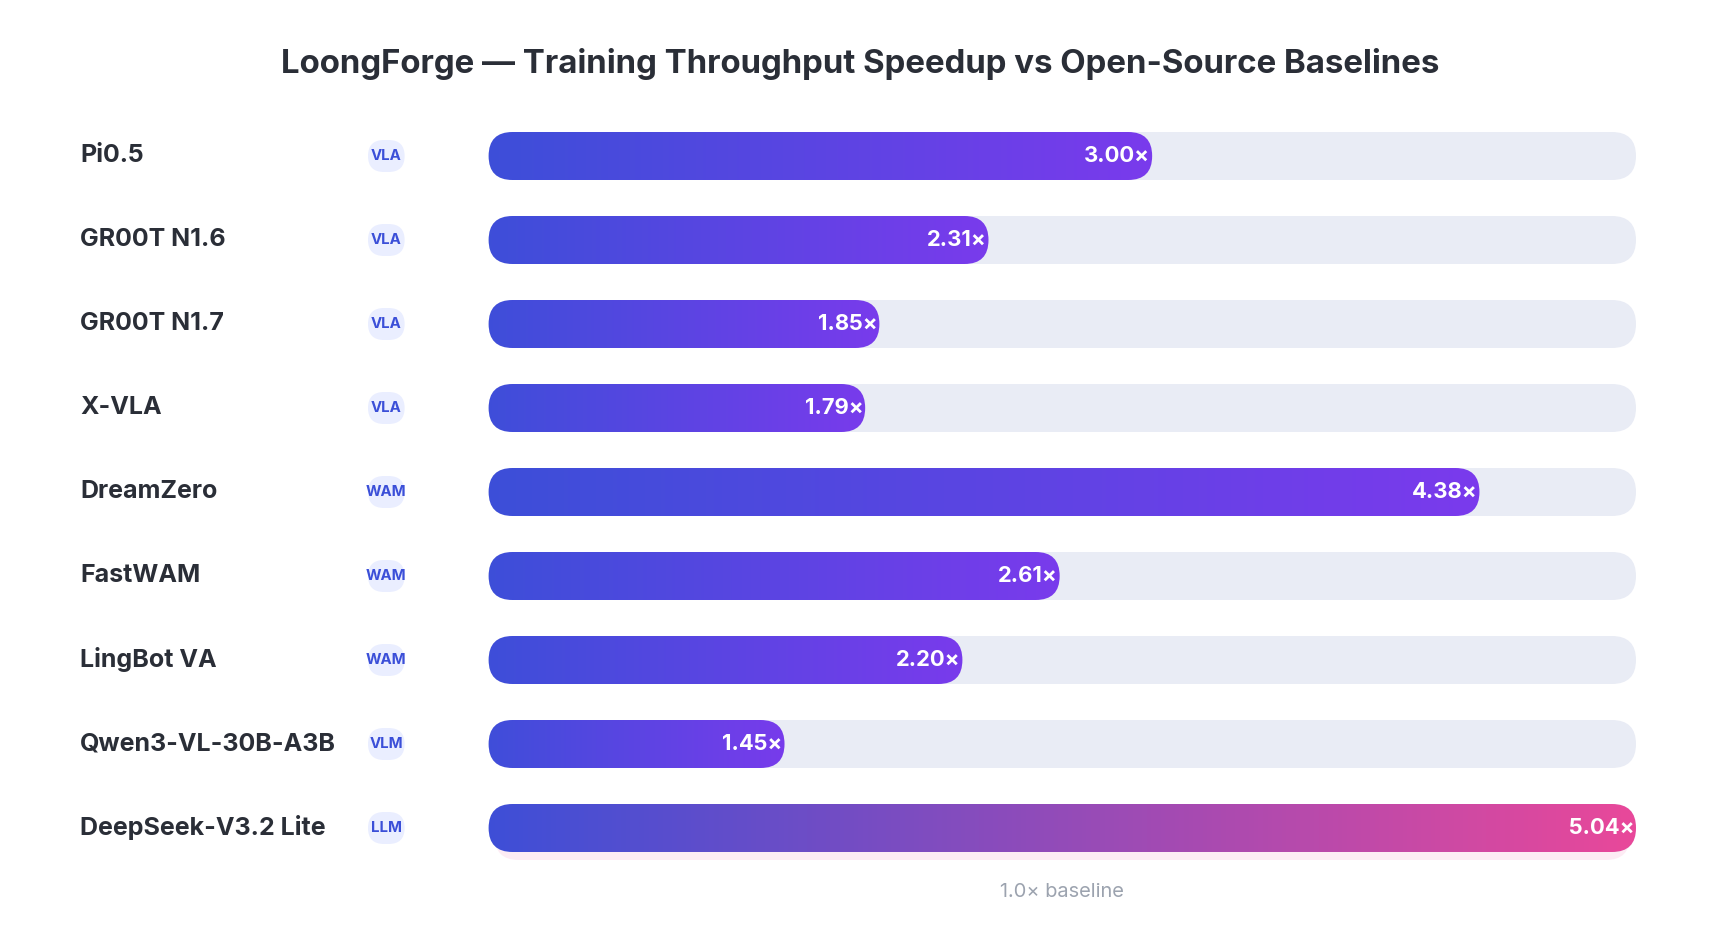
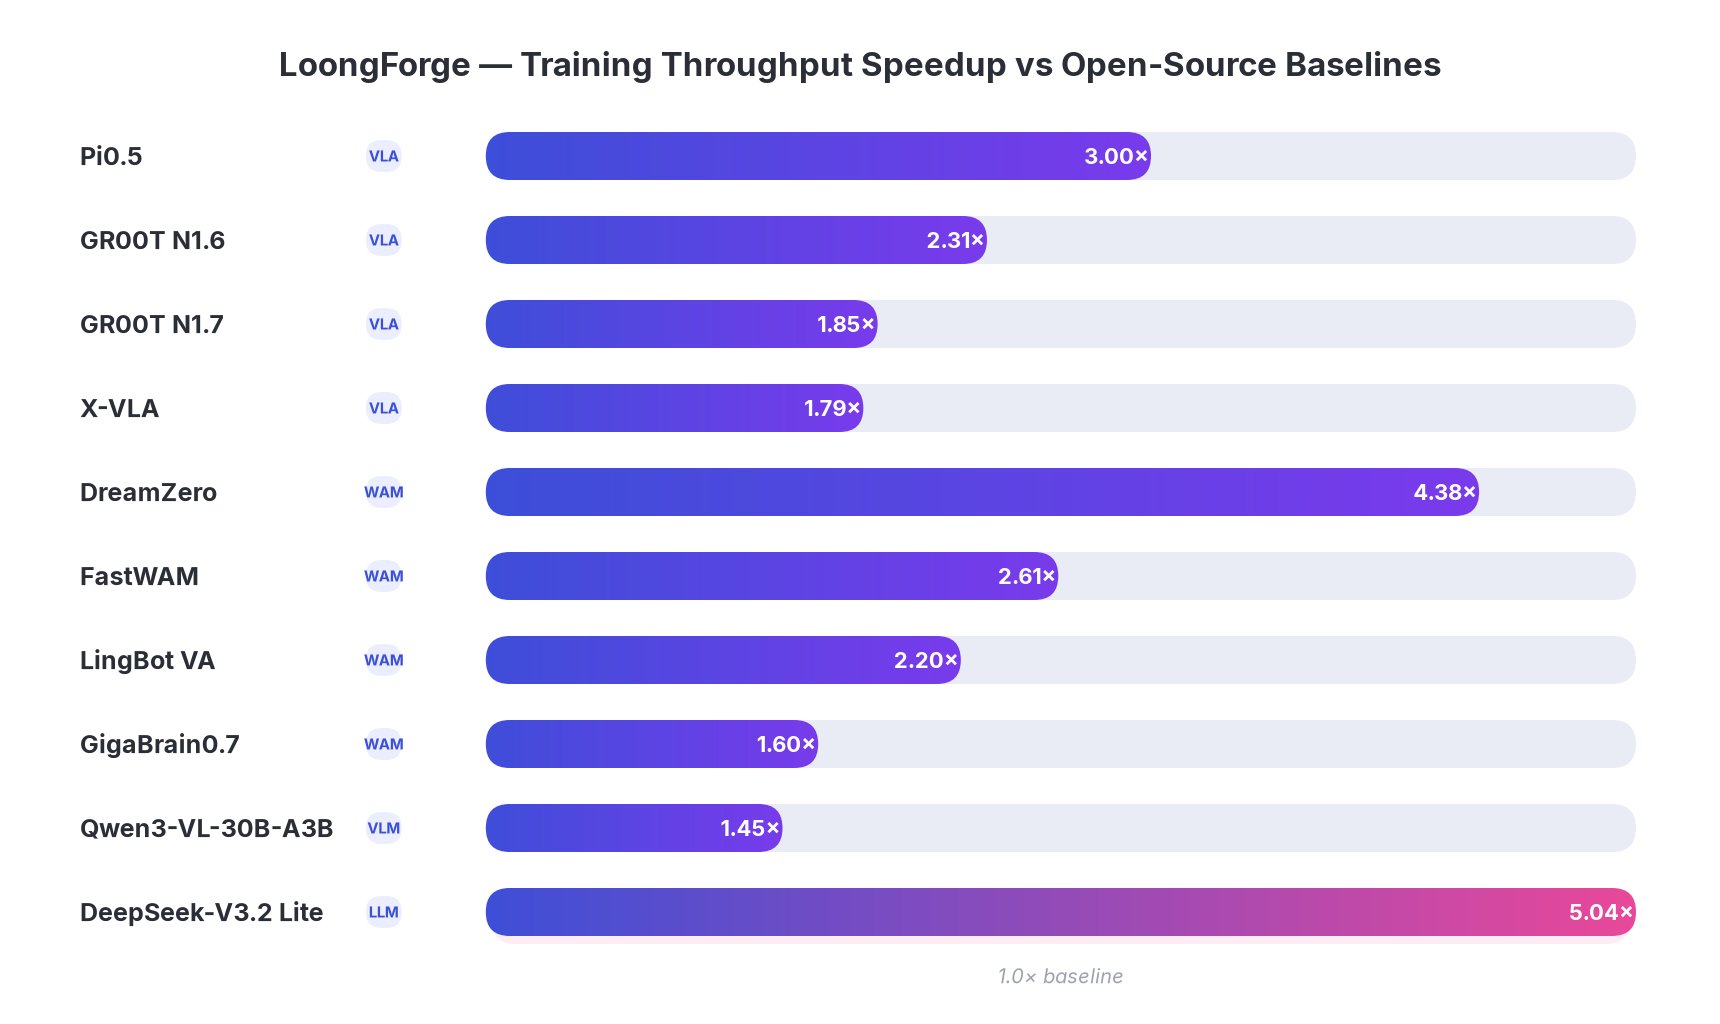
[vla] feat: Add docs for giga_brain0 (#331)
* [vla] Add docs for giga_brain0

diff --git a/docs/assets/images/benchmark_image.py b/docs/assets/images/benchmark_image.py
@@ -50,6 +50,7 @@ ROWS = [
     ("DreamZero",          "WAM", 4.38),
     ("FastWAM",            "WAM", 2.61),
     ("LingBot VA",         "WAM", 2.20),
+    ("GigaBrain0.7",       "WAM", 1.60),
     # VLM
     ("Qwen3-VL-30B-A3B",   "VLM", 1.45),
     # LLM

diff --git a/docs/source/embodied_tutorial/quick_start_giga_brain07.md b/docs/source/embodied_tutorial/quick_start_giga_brain07.md
@@ -1,0 +1,130 @@
+# Quick Start: GigaBrain-0.7 Training
+
+This document introduces how to quickly launch **GigaBrain-0.7** SFT (Supervised Fine-Tuning) training in the LoongForge framework.
+
+## 0. Resource Preparation
+### 0.1 Model Weights
+The GigaBrain-0.7 main weights (PaliGemma2 vision-language backbone + action expert) are specified by `GB0_PRETRAINED` and loaded via `model.pretrained`. Taking the officially released `GigaBrain-0.7-3.5B-Base` weights as an example, download them to a local directory:
+
+```bash
+hf download open-gigaai/GigaBrain-0.7-3.5B-Base --local-dir /workspace/ckpt/open-gigaai/GigaBrain-0.7-3.5B-Base
+```
+### 0.2 Tokenizer
+GigaBrain-0.7 uses two tokenizers: the PaliGemma text tokenizer (`GB0_TOKENIZER`, loaded via `--tokenizer-path` and `data.tokenizer_model_path`) and the FAST action tokenizer (`GB0_FAST_TOKENIZER`, loaded via `data.fast_tokenizer_path`):
+
+```bash
+hf download google/paligemma-3b-pt-224 --local-dir /workspace/ckpt/paligemma-3b-pt-224
+hf download physical-intelligence/fast --local-dir /workspace/ckpt/physical-intelligence/fast
+```
+### 0.3 Dataset
+GigaBrain-0.7 uses datasets in LeRobot v3.0 format; the example is `task_327` from AgiBot World. A normalization statistics file (`norm_stats.json`) matching the embodiment is also required:
+
+```bash
+export GB0_DATA_PATH_V30=/workspace/data/agibot-world/AgiBotWorldLerobot_v30/agibotworld/task_327
+export GB0_NORM_STATS=/workspace/data/agibot-world/AgiBotWorldLerobot/agibot_a2d_norm_stats.json
+```
+## 1. Data Configuration
+GigaBrain-0.7 reuses LoongForge's shared LeRobot v3 reader via `--dataset-strategy giga_brain07`, with **no extra offline preprocessing required**. GigaBrain-0.7's per-sample transform (multi-view image resizing, state/action normalization, language and FAST action tokenization) and batch collator are performed online during training.
+
+Data defaults live in the `data` section of `configs/models/embodied/giga_brain07.yaml`:
+
+```yaml
+data:
+  camera_keys:
+  - observation.images.top_head
+  - observation.images.hand_left
+  - observation.images.hand_right
+  action_chunk: 50
+  video_backend: torchcodec
+  robot_type: a2d
+  embodiment_override: AGIBOT_G1
+  embodiment_id: '1'
+  resize_hw: [224, 224]
+  max_length: 120
+  use_quantiles: true
+```
+Field descriptions:
+
+- `camera_keys`: keys of multi-view images in the LeRobot dataset; order defines the view order (the first is the primary view).
+- `action_chunk`: action chunk length per sample; must match `model.action_horizon`.
+- `video_backend`: video decoding backend.
+- `robot_type` / `embodiment_override` / `embodiment_id`: embodiment type and ID. `embodiment_id` selects the embodiment-specific parameters in the model, and must match the value used when training the checkpoint.
+- `resize_hw`: input image resize size.
+- `max_length`: maximum language token length.
+- `use_quantiles`: normalize with the quantiles in `norm_stats.json`.
+
+## 2. Launch Training
+First set up the paths uniformly (refer to `examples/embodied/giga_brain07/run_giga_brain07_torchrun.sh`):
+
+```bash
+cd /workspace/LoongForge
+
+export LOONGFORGE_PATH=/workspace/LoongForge
+export GB0_PRETRAINED=/workspace/ckpt/open-gigaai/GigaBrain-0.7-3.5B-Base
+export GB0_TOKENIZER=/workspace/ckpt/paligemma-3b-pt-224
+export GB0_FAST_TOKENIZER=/workspace/ckpt/physical-intelligence/fast
+export GB0_DATA_PATH_V30=/workspace/data/agibot-world/AgiBotWorldLerobot_v30/agibotworld/task_327
+export GB0_NORM_STATS=/workspace/data/agibot-world/AgiBotWorldLerobot/agibot_a2d_norm_stats.json
+export OUTPUT_DIR=/workspace/outputs/giga_brain07_fsdp
+```
+### 2.1 Launch Script
+Single-node 8-GPU FSDP2 fine-tuning:
+
+```bash
+bash examples/embodied/giga_brain07/run_giga_brain07_torchrun.sh
+```
+The script enables the following optimizations by default; they can be disabled or adjusted via environment variables:
+
+```bash
+GB0_COMPILE=decoder,vision           # Regional torch.compile on decoder and vision encoder layers; set empty to disable
+GB0_KV_SLICE=1                       # Each decoder layer receives only its own KV cache; set 0 to disable
+GB0_AC_PATTERNS=...                  # Modules to recompute; defaults cover all 26 decoder layers and every vision encoder layer
+```
+Other common environment variables: `GB0_BATCH_SIZE` (per-GPU batch size, default 80), `GB0_MAX_STEPS` (training steps, default 100), `GB0_NUM_WORKERS` (DataLoader workers, default 8), `GB0_DTYPE` (training precision, default `float32`).
+### 2.2 Key Arguments
+The main arguments in the script are grouped as follows.
+
+**Model and Distributed:**
+
+```bash
+--model-name giga_brain07            # Mapped to GigaBrain-0.7 config via config_map
+--distributed-strategy fsdp          # FSDP2 distributed strategy
+--dtype float32                      # Training precision (GB0_DTYPE)
+--activation-checkpoint-module-patterns "$GB0_AC_PATTERNS"  # Modules with activation checkpointing
+# GPUS_PER_NODE=8                    # Number of GPUs per node (script variable)
+```
+**Data:**
+
+```bash
+--dataset-format lerobot_datasets    # Use LeRobot datasets
+--dataset-strategy giga_brain07      # GigaBrain-0.7 dataset build strategy
+--dataset-path $GB0_DATA_PATH_V30    # LeRobot v3.0 dataset directory
+--tokenizer-path $GB0_TOKENIZER      # PaliGemma tokenizer directory
+--num-workers 8                      # Number of DataLoader workers
+data.norm_stats_path=$GB0_NORM_STATS # Normalization statistics file
+data.fast_tokenizer_path=$GB0_FAST_TOKENIZER  # FAST action tokenizer directory
+```
+**Training:**
+
+```bash
+--trainer-type FinetuneTrainer
+--train-iters 100
+--per-device-batch-size 80
+--gradient-accumulation-steps 1
+--optimizer AdamW
+--lr-base 2.5e-5                     # Base learning rate
+--lr-decay-style giga_warmup_cosine  # Warmup + cosine schedule matching the original GigaBrain
+--lr-warmup-iters 10
+--lr-decay-iters 300
+--min-lr 2.5e-6
+--adam-beta1 0.9
+--adam-beta2 0.95
+--adam-eps 1e-8
+--weight-decay 1e-10
+--clip-grad 0                        # No gradient clipping
+model.pretrained=$GB0_PRETRAINED     # Pretrained weights
+--save-interval 0                    # Checkpoint save interval; 0 disables saving
+--seed 6666
+```
+
+> **Note:** `data.embodiment_id` determines the embodiment parameters used for training/inference. Make sure it matches the embodiment of the loaded checkpoint; `data.norm_stats_path` must also correspond to that embodiment's data statistics.

diff --git a/docs/source_zh/embodied_tutorial/quick_start_giga_brain07.md b/docs/source_zh/embodied_tutorial/quick_start_giga_brain07.md
@@ -1,0 +1,130 @@
+# 快速入门：GigaBrain-0.7模型训练
+
+本文档介绍如何在 LoongForge 框架下快速启动 **GigaBrain-0.7** SFT（监督微调）训练的快速开始流程。
+
+## 0. 资源准备
+### 0.1 模型权重
+GigaBrain-0.7 主权重（PaliGemma2 视觉-语言 backbone + action expert）由 `GB0_PRETRAINED` 指定，并通过 `model.pretrained` 加载。以官方 `GigaBrain-0.7-3.5B-Base` 权重为例，将其下载到本地目录：
+
+```bash
+hf download open-gigaai/GigaBrain-0.7-3.5B-Base --local-dir /workspace/ckpt/open-gigaai/GigaBrain-0.7-3.5B-Base
+```
+### 0.2 Tokenizer
+GigaBrain-0.7 使用两个 tokenizer：PaliGemma 的文本 tokenizer（`GB0_TOKENIZER`，通过 `--tokenizer-path` 与 `data.tokenizer_model_path` 加载）和 FAST 动作 tokenizer（`GB0_FAST_TOKENIZER`，通过 `data.fast_tokenizer_path` 加载）：
+
+```bash
+hf download google/paligemma-3b-pt-224 --local-dir /workspace/ckpt/paligemma-3b-pt-224
+hf download physical-intelligence/fast --local-dir /workspace/ckpt/physical-intelligence/fast
+```
+### 0.3 数据集
+GigaBrain-0.7 使用 LeRobot v3.0 格式数据集，示例为 AgiBot World 的 `task_327`。另需提供与具身对应的归一化统计文件（`norm_stats.json`）：
+
+```bash
+export GB0_DATA_PATH_V30=/workspace/data/agibot-world/AgiBotWorldLerobot_v30/agibotworld/task_327
+export GB0_NORM_STATS=/workspace/data/agibot-world/AgiBotWorldLerobot/agibot_a2d_norm_stats.json
+```
+## 1. 数据配置
+GigaBrain-0.7 通过 `--dataset-strategy giga_brain07` 复用 LoongForge 共享的 LeRobot v3 reader，**无需额外离线预处理**。训练时在线执行 GigaBrain-0.7 的 per-sample transform（多视角图像 resize、state/action 归一化、语言与 FAST 动作 tokenize）与 batch collator。
+
+数据相关默认值在 `configs/models/embodied/giga_brain07.yaml` 的 `data` 段：
+
+```yaml
+data:
+  camera_keys:
+  - observation.images.top_head
+  - observation.images.hand_left
+  - observation.images.hand_right
+  action_chunk: 50
+  video_backend: torchcodec
+  robot_type: a2d
+  embodiment_override: AGIBOT_G1
+  embodiment_id: '1'
+  resize_hw: [224, 224]
+  max_length: 120
+  use_quantiles: true
+```
+字段说明：
+
+- `camera_keys`：多视角图像在 LeRobot 数据集中的 key，顺序即视角顺序（第一路为主视角）。
+- `action_chunk`：每个样本的动作块长度，需与 `model.action_horizon` 一致。
+- `video_backend`：视频解码后端。
+- `robot_type` / `embodiment_override` / `embodiment_id`：具身类型与具身编号。`embodiment_id` 选择模型中对应具身的参数，需与训练该 checkpoint 时使用的取值一致。
+- `resize_hw`：输入图像 resize 尺寸。
+- `max_length`：语言 token 最大长度。
+- `use_quantiles`：使用 `norm_stats.json` 中的分位数做归一化。
+
+## 2. 启动训练
+先统一设置路径（参考 `examples/embodied/giga_brain07/run_giga_brain07_torchrun.sh`）：
+
+```bash
+cd /workspace/LoongForge
+
+export LOONGFORGE_PATH=/workspace/LoongForge
+export GB0_PRETRAINED=/workspace/ckpt/open-gigaai/GigaBrain-0.7-3.5B-Base
+export GB0_TOKENIZER=/workspace/ckpt/paligemma-3b-pt-224
+export GB0_FAST_TOKENIZER=/workspace/ckpt/physical-intelligence/fast
+export GB0_DATA_PATH_V30=/workspace/data/agibot-world/AgiBotWorldLerobot_v30/agibotworld/task_327
+export GB0_NORM_STATS=/workspace/data/agibot-world/AgiBotWorldLerobot/agibot_a2d_norm_stats.json
+export OUTPUT_DIR=/workspace/outputs/giga_brain07_fsdp
+```
+### 2.1 启动脚本
+单机 8 卡 FSDP2 微调：
+
+```bash
+bash examples/embodied/giga_brain07/run_giga_brain07_torchrun.sh
+```
+脚本默认已开启以下优化，可通过环境变量关闭或调整：
+
+```bash
+GB0_COMPILE=decoder,vision           # 对 decoder 与 vision encoder 层做 regional torch.compile；置空则关闭
+GB0_KV_SLICE=1                       # 每个 decoder 层只接收自身的 KV cache；置 0 则关闭
+GB0_AC_PATTERNS=...                  # 重计算的模块，默认覆盖 26 个 decoder 层与 vision encoder 各层
+```
+其他常用环境变量：`GB0_BATCH_SIZE`（每卡 batch size，默认 80）、`GB0_MAX_STEPS`（训练步数，默认 100）、`GB0_NUM_WORKERS`（DataLoader worker 数，默认 8）、`GB0_DTYPE`（训练精度，默认 `float32`）。
+### 2.2 关键参数说明
+脚本内主要参数分组如下。
+
+**模型与分布式：**
+
+```bash
+--model-name giga_brain07            # 通过 config_map 映射到 GigaBrain-0.7 配置
+--distributed-strategy fsdp          # FSDP2 分布式策略
+--dtype float32                      # 训练精度（GB0_DTYPE）
+--activation-checkpoint-module-patterns "$GB0_AC_PATTERNS"  # 激活重计算的模块
+# GPUS_PER_NODE=8                    # 单机 GPU 数（脚本变量）
+```
+**数据：**
+
+```bash
+--dataset-format lerobot_datasets    # 使用 LeRobot 数据集
+--dataset-strategy giga_brain07      # GigaBrain-0.7 的数据构建策略
+--dataset-path $GB0_DATA_PATH_V30    # LeRobot v3.0 数据集目录
+--tokenizer-path $GB0_TOKENIZER      # PaliGemma tokenizer 目录
+--num-workers 8                      # DataLoader worker 数
+data.norm_stats_path=$GB0_NORM_STATS # 归一化统计文件
+data.fast_tokenizer_path=$GB0_FAST_TOKENIZER  # FAST 动作 tokenizer 目录
+```
+**训练：**
+
+```bash
+--trainer-type FinetuneTrainer
+--train-iters 100
+--per-device-batch-size 80
+--gradient-accumulation-steps 1
+--optimizer AdamW
+--lr-base 2.5e-5                     # 基础学习率
+--lr-decay-style giga_warmup_cosine  # 与 GigaBrain 原版一致的 warmup + cosine 调度
+--lr-warmup-iters 10
+--lr-decay-iters 300
+--min-lr 2.5e-6
+--adam-beta1 0.9
+--adam-beta2 0.95
+--adam-eps 1e-8
+--weight-decay 1e-10
+--clip-grad 0                        # 不做梯度裁剪
+model.pretrained=$GB0_PRETRAINED     # 预训练权重
+--save-interval 0                    # checkpoint 保存间隔，0 表示不保存
+--seed 6666
+```
+
+> **说明：** `data.embodiment_id` 决定训练/推理使用的具身参数，请确保其与所加载 checkpoint 的训练具身一致；`data.norm_stats_path` 也需与该具身的数据统计对应。

diff --git a/README.md b/README.md
@@ -314,6 +314,7 @@ Click any model for its training examples; see [`configs/models/`](./configs/mod
 <li><a href="examples/embodied/cosmos3/">Cosmos3</a></li>
 <li><a href="examples/embodied/dreamzero/">DreamZero</a></li>
 <li><a href="cookbook/loongforge-vlda/">LoongForge-VLDA</a></li>
+<li><a href="examples/embodied/giga_brain07/">GigaBrain0.7</a></li>
 </ul>
 </td>
 <td valign="top">

diff --git a/docs/source/embodied_tutorial/quick_start_index.md b/docs/source/embodied_tutorial/quick_start_index.md
@@ -13,6 +13,7 @@ quick_start_pi05
 quick_start_gr00t_n1_6
 quick_start_gr00t_n1_7
 quick_start_xvla
+quick_start_giga_brain07
 ```
 
 ## WAM Models

diff --git a/docs/source_zh/embodied_tutorial/quick_start_index.md b/docs/source_zh/embodied_tutorial/quick_start_index.md
@@ -13,6 +13,7 @@ quick_start_pi05
 quick_start_gr00t_n1_6
 quick_start_gr00t_n1_7
 quick_start_xvla
+quick_start_giga_brain07
 ```
 
 ## WAM 模型
